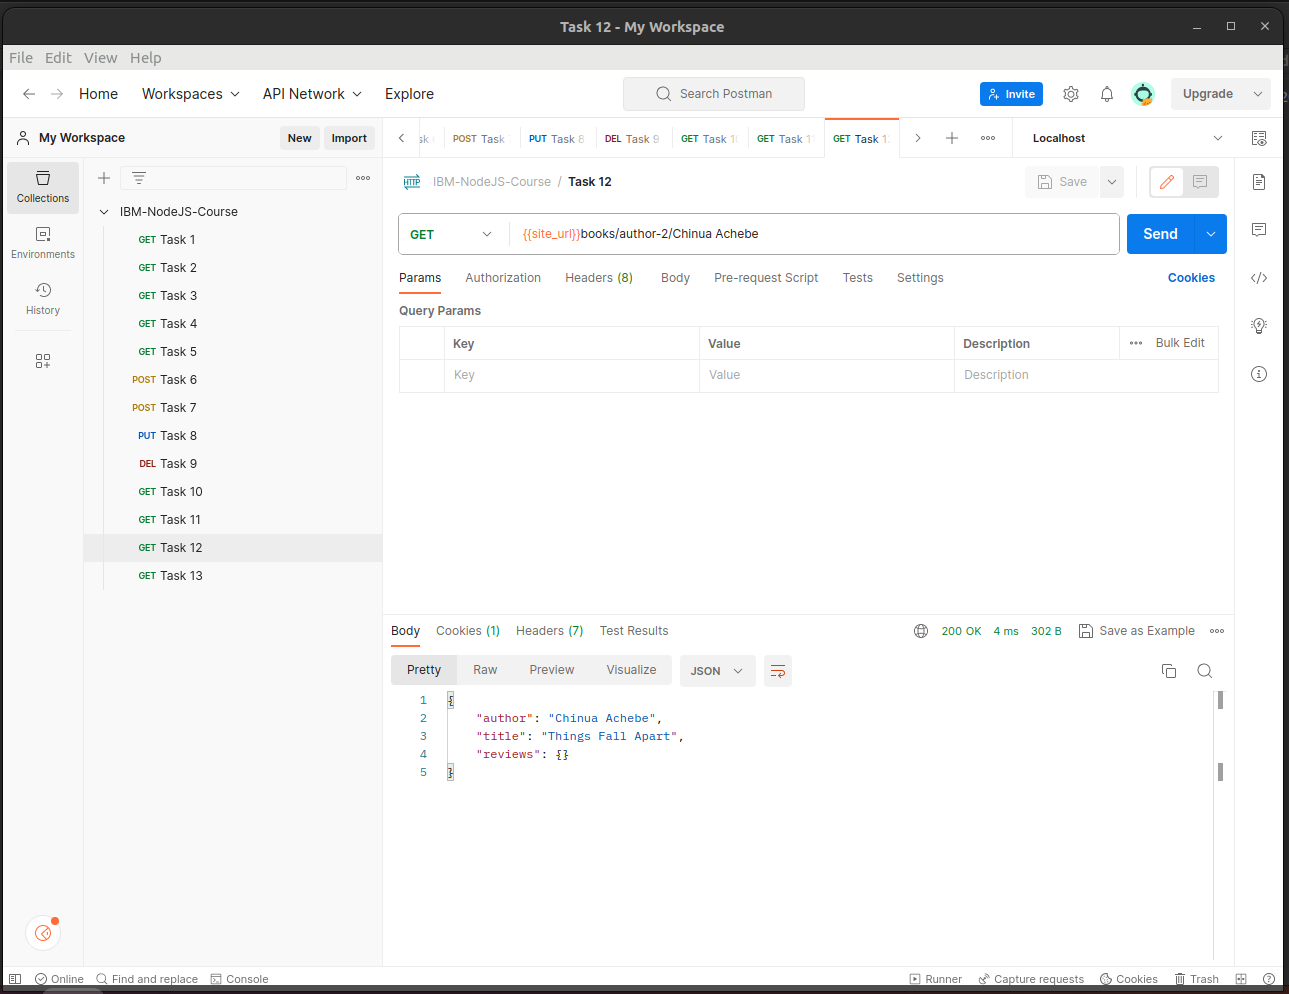
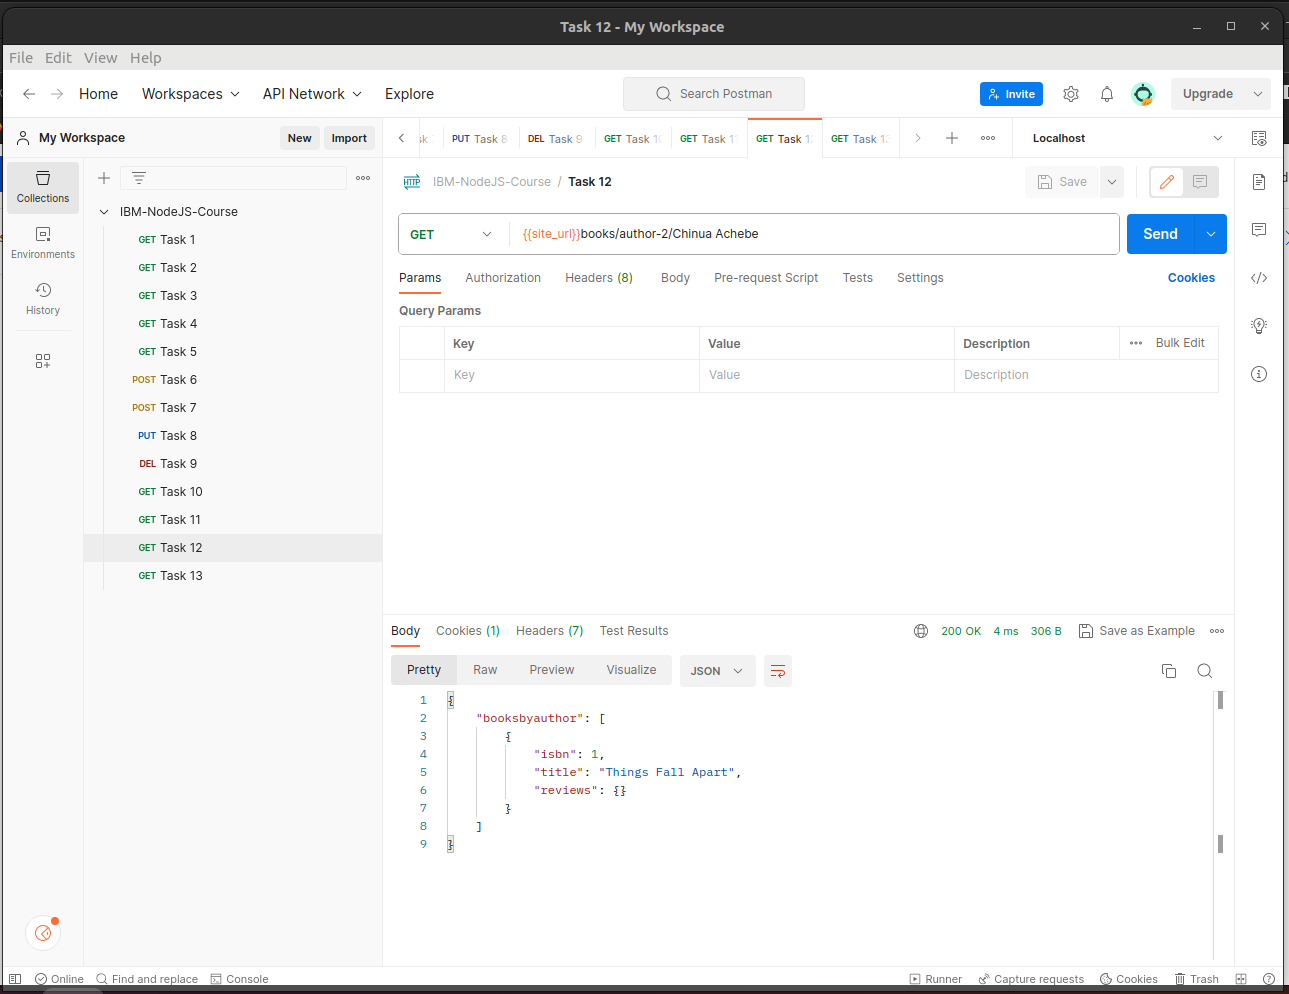
changes

diff --git a/router/general.js b/router/general.js
@@ -2,6 +2,29 @@ const express = require('express');
 let books = require("./booksdb.js");
 const public_users = express.Router();
 
+function getSimilarBooks(author, title) {
+  const similarBooks = [];
+  let isbn = 1;
+  for (const book of Object.values(books)) { 
+    if (book.author === author) {
+      similarBooks.push({
+        "isbn" : isbn,
+        "title" : book.title,
+        "reviews" : book.reviews
+      });
+    }
+    if (book.title === title) {
+      similarBooks.push({
+        "isbn" : isbn,
+        "author" : book.author,
+        "reviews" : book.reviews
+      });
+    }
+    isbn++;
+  }
+
+  return similarBooks;
+}
 
 // Get the book list available in the shop
 public_users.get('/',function (req, res) {
@@ -55,21 +78,19 @@ public_users.get('/isbn/:isbn',function (req, res) {
 // Get book details based on author
 public_users.get('/author/:author',function (req, res) {
   const author = req.params.author;
-  const filteredBooks = Object.keys(books).filter((key) => books[key].author === author);
-  const book = books[filteredBooks];  
-    if (book) {
-      res.send(book);
+  let booksList = getSimilarBooks(author);
+    if (booksList) {
+      res.send({"booksbyauthor":booksList});
     } else {
       res.status(404).json({ message: 'Book not found' });
     }
 });
 
-public_users.get('/author-2/:author',function (req, res) {
-  new Promise((resolve, reject) => {
+public_users.get('/author-2/:author',function  (req, res) {
+  new Promise(async (resolve, reject) => {
     const author = req.params.author;
-    const filteredBooks = Object.keys(books).filter((key) => books[key].author === author);
-    const book = books[filteredBooks];  
-    resolve(book);
+    let booksList = await getSimilarBooks(author);
+     resolve({"booksbyauthor":booksList});
   })
     .then((result) => {
       res.send(result);
@@ -85,22 +106,20 @@ public_users.get('/author-2/:author',function (req, res) {
 // Get all books based on title
 public_users.get('/title/:title',function (req, res) {
   const title = req.params.title;
-  const filteredBooks = Object.keys(books).filter((key) => books[key].title === title);
-  const book = books[filteredBooks];  
-    if (book) {
-      res.send(book);
-    } else {
-      res.status(404).json({ message: 'Book not found' });
-    }
+  let booksList = getSimilarBooks(null,title);
+  if (booksList) {
+    res.send({"booksbytitle":booksList});
+  } else {
+    res.status(404).json({ message: 'Book not found' });
+  }
 });
 
 
 public_users.get('/title-2/:title',function (req, res) {
-  new Promise((resolve, reject) => {
+  new Promise(async (resolve, reject) => {
     const title = req.params.title;
-    const filteredBooks = Object.keys(books).filter((key) => books[key].title === title);
-    const book = books[filteredBooks];  
-    resolve(book);
+    let booksList = await getSimilarBooks(null,title);
+     resolve({"booksbytitle":booksList});
   })
     .then((result) => {
       res.send(result);
